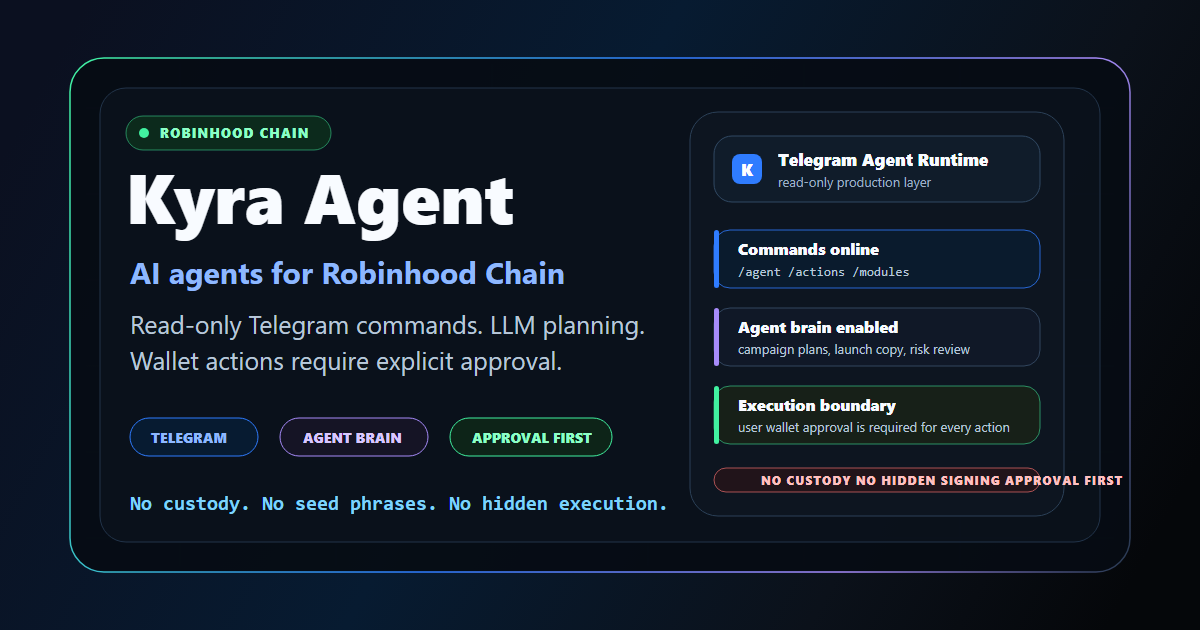
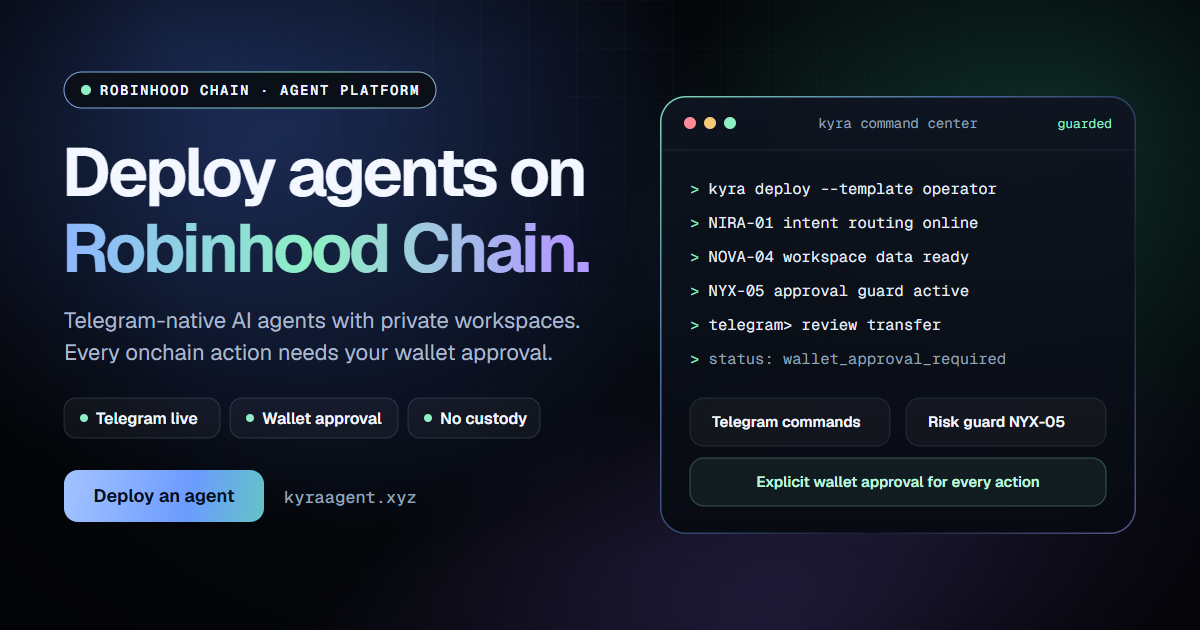
Refresh social card and tighten accessible labels
Redesign the Open Graph card in the Luxe style with Geist typography; the
previous card let its footer pill text overflow. Add llms.txt so agents
read an accurate product summary instead of the SPA shell.

Accessibility fixes from a Lighthouse pass on the live site:

- The deploy progress bar now exposes role="progressbar" with values.
- The logo button and token card links use accessible names that match
  their visible text, and the decorative brand cursor is hidden.

diff --git a/src/components/OfficialTokenCard.tsx b/src/components/OfficialTokenCard.tsx
@@ -48,7 +48,7 @@ export function OfficialTokenCard() {
             href={officialKyraToken.announcementUrl}
             target="_blank"
             rel="noreferrer"
-            aria-label="Follow official Kyra announcements on X"
+            aria-label="Updates: official Kyra announcements on X"
           >
             <ExternalLink size={16} />
             <span>Updates</span>
@@ -119,7 +119,7 @@ export function OfficialTokenCard() {
             target="_blank"
             rel="noreferrer"
             title="View official token contract on Blockscout"
-            aria-label="View official token contract on Blockscout"
+            aria-label="Explorer: view the official token contract on Blockscout"
           >
             <ExternalLink size={16} />
             <span>Explorer</span>

diff --git a/src/components/DeployPanel.tsx b/src/components/DeployPanel.tsx
@@ -1285,7 +1285,14 @@ export function DeployPanel({
             <span>{progress}%</span>
           </div>
 
-          <div className="deploy-progress" aria-label={`Deploy progress ${progress}%`}>
+          <div
+            className="deploy-progress"
+            role="progressbar"
+            aria-label="Deploy progress"
+            aria-valuemin={0}
+            aria-valuemax={100}
+            aria-valuenow={progress}
+          >
             <span style={{ width: `${progress}%` }} />
           </div>
 

diff --git a/src/components/BrandMark.tsx b/src/components/BrandMark.tsx
@@ -29,7 +29,7 @@ export function BrandMark() {
     <span className="brand-mark" aria-label="KYRA-AGENT">
       <img className="brand-logo-image" src="/brand/kyra.jpg" alt="" aria-hidden="true" />
       <span className="brand-text">{frames[frame]}</span>
-      <span className="brand-cursor">_</span>
+      <span className="brand-cursor" aria-hidden="true">_</span>
     </span>
   );
 }

diff --git a/src/components/Header.tsx b/src/components/Header.tsx
@@ -37,7 +37,7 @@ export function Header({
         className="logo-link logo-button"
         type="button"
         onClick={() => handleNavigation(onOpenHome)}
-        aria-label="Kyra Agent home"
+        aria-label="KYRA-AGENT home"
       >
         <BrandMark />
       </button>
